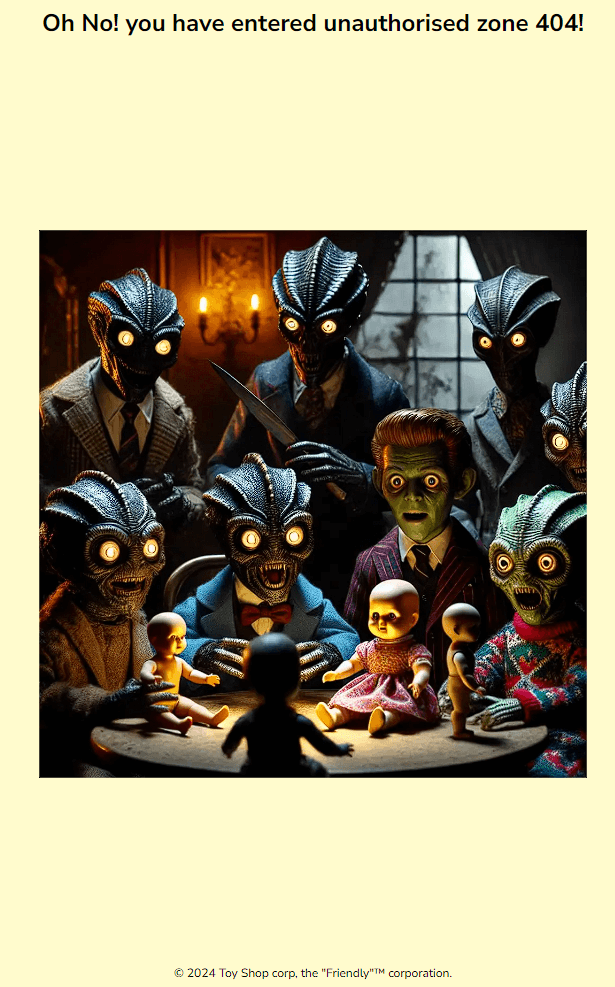
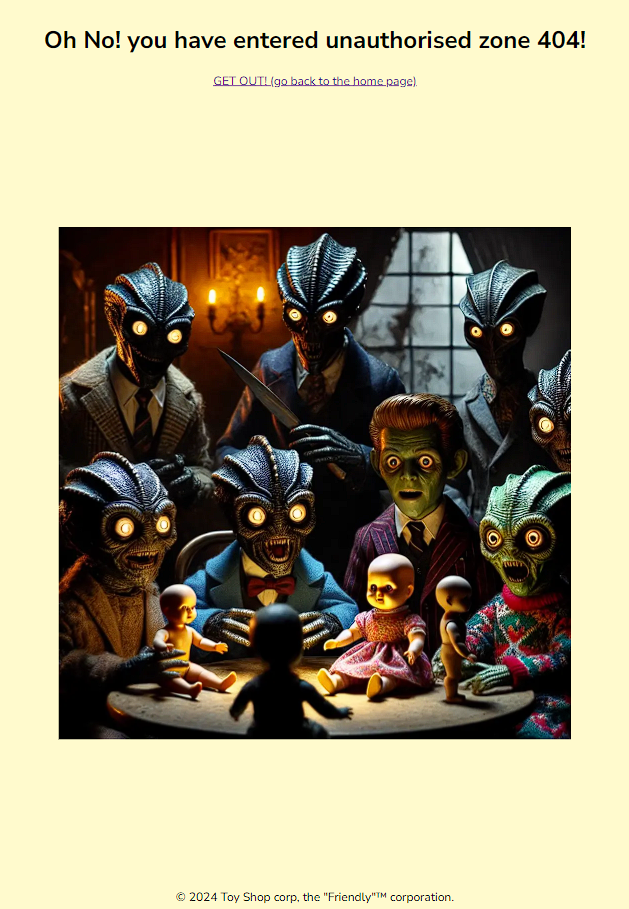
Readme updates for reduced gallery and back links functionality

diff --git a/README.md b/README.md
@@ -19,6 +19,7 @@ The aim of this site was to help my son improve his understanding of mathematics
 - [Footer](#footer)
 - [Main Page](#main-page)
 - [Search Gallery Page](#search-gallery-page)
+  - [Reduced Gallery Page](#gallery-page-reduced)
 - [Game Page](#game-page)
 - [Success Page](#success-page)
 - [Well Done - New Game Page](#well-done---new-game-page)
@@ -36,7 +37,7 @@ The aim of this site was to help my son improve his understanding of mathematics
 - [Cloning](#cloning)
 - [References](#references)
 - [Technologies Used](#technologies-used)
-- [Credit](#credit)
+- [Credit & Thanks](#credit--thanks)
 
 
 ## Wire Frame
@@ -111,8 +112,15 @@ The overall goal for this website is to take a user input search query, pass it 
 - The user is instructed to select one of the images to advance to the next stage. 
 - The images are responsive to mouse over and the cursor changes to a pointer to reinforce the interactivity of the images. 
 - The gallery is fully responsive to screen sizes from 250px to 3440px wide.
+- A link to take the user back to the first page to try searching for a different toy is included under the gallery.
 
 ![gallery](assets/readme_images/gallery_page_boats.png)
+
+### Gallery Page reduced
+  - after the user has bought a car and choses to return to the gallery to pick a new toy to buy, the previously purchased toys will have been removed.
+
+  ![reduced_gallery](assets/readme_images/galery_reduced.png)
+
 
 ## Game Page
 
@@ -121,6 +129,7 @@ The overall goal for this website is to take a user input search query, pass it 
 - The coins are reactive to hover over, expanding and changing the cursor to a grabber to indicate interactivity. 
 - The give money to the shop keeper button submits the user's total to be checked against the price total. If the user is under or over the price, they are given text feedback as to which it is. 
 - Both buttons are responsive to mouse over and click.
+- A back to gallery link is included to return the user to the gallery page to chose a different toy to buy.
 
 ![game](assets/readme_images/game_page.png)
 
@@ -128,7 +137,7 @@ The overall goal for this website is to take a user input search query, pass it 
 
 - The success page is displayed when the user submits a total that matches the price. 
 - When the page is loaded, a success fanfare audio file is played. The file clip has an 'aria-label' associated with it for accessibility. 
-- The continue button returns the user back to the gallery of toys they have just chosen from.
+- The continue button returns the user back to the gallery of toys they have just chosen from, which will now have the just purchased toy removed.
 - The new game button returns the user to the main page, allowing them to select a new toy to play the game with. 
 - Both buttons are responsive to mouse over and click. The cursor changes to a pointer on mouse over.
 
@@ -145,6 +154,7 @@ The overall goal for this website is to take a user input search query, pass it 
 ## 404 Page
 
 - There is a 404 page should the user somehow find themselves where they shouldn't.
+- There is a handy link for the user to ~~run away~~ go back to the main page.
 
 ![404](assets/readme_images/404_page.png)
 
@@ -182,34 +192,34 @@ Below is an extract of the test script used to test and validate the project:
 | ---------------------------- | --------------------------------------------------------------------------------------- | -------------------------------------------------------- | ------- |
 | Search bar - entry           | 1\. Attempt to enter a leading and tailing space on a query  in the search bar          |                                                          |         |
 |                              | 2\. click search                                                                        |                                                          |         |
-|                              | 3\. verify A)                                                                           | A) The white spaces are removed                          |         |
+|                              | 3\. verify A)                                                                           | A) The white spaces are removed                          |  pass   |
 | Search bar - empty           | 1\. Attempt to click search without entering anything in the search bar                 |                                                          |         |
-|                              | 2.Verify A)                                                                             | A) The search is blocked, some input is required         |         |
+|                              | 2.Verify A)                                                                             | A) The search is blocked, some input is required         |  pass   |
 |                              |                                                                                         |                                                          |         |
 | Gallery page - screen resize | 1\. On the gallery page, resize the screen                                              |                                                          |         |
-|                              | 2\. Verify A)                                                                           | A) the gallery is not adversely affected by the resizing |         |
+|                              | 2\. Verify A)                                                                           | A) the gallery is not adversely affected by the resizing |  pass   |
 |                              |                                                                                         |                                                          |         |
 | Game page - coins on resize  | 1\. on the game page resize the screen to 250px wide                                    |                                                          |         |
-|                              | 2\. verify A)                                                                           | A) the coins are still functional                        |         |
+|                              | 2\. verify A)                                                                           | A) the coins are still functional                        |  pass   |
 |                              |                                                                                         |                                                          |         |
 |                              | 1\. on the game page resize the screen to 3440px wide                                   |                                                          |         |
-|                              | 2\. verify A)                                                                           | A) the coins are still functional                        |         |
+|                              | 2\. verify A)                                                                           | A) the coins are still functional                        |  pass   |
 |                              |                                                                                         |                                                          |         |
 | Spam the buttons             | 1\. Attempt to break the search button by rapidly clicking on it                        |                                                          |         |
-|                              | 2\. Verify A)                                                                           | A) the search button should suffer no ill effects        |         |
+|                              | 2\. Verify A)                                                                           | A) the search button should suffer no ill effects        |  pass   |
 |                              |                                                                                         |                                                          |         |
 |                              | 1\. Attempt to break the give money to the shop keeper button by rapidly clicking on it |                                                          |
-|                              | 2\. Verify A)                                                                           | A) the search button should suffer no ill effects        |         |
+|                              | 2\. Verify A)                                                                           | A) the search button should suffer no ill effects        |  pass   |
 |                              |                                                                                         |                                                          |         |
 |                              | 1\. Attempt to break the start over button by rapidly clicking on it                    |                                                          |         |
-|                              | 2\. Verify A)                                                                           | A) the search button should suffer no ill effects        |         |
+|                              | 2\. Verify A)                                                                           | A) the search button should suffer no ill effects        |  pass   |
 |                              |                                                                                         |                                                          |         |
 |                              | 1\. Attempt to break the new game button by rapidly clicking on it                      |                                                          |         |
-|                              | 2\. Verify A)                                                                           | A) the search button should suffer no ill effects        |         |
+|                              | 2\. Verify A)                                                                           | A) the search button should suffer no ill effects        |  pass   |
 |                              |                                                                                         |                                                          |         |
 | buying all 5 toys            | 1\. Play the game                                                                       |                                                          |         |
 |                              | 2\. buy each of the five toys in a collection                                           |                                                          |         |
-|                              | 3\. Verify A)                                                                           | A) the user is only given the new game option            |         |
+|                              | 3\. Verify A)                                                                           | A) the user is only given the new game option            |  pass   |
 
 
 Here is a breakdown of the devices the projected was tested across:
@@ -332,6 +342,7 @@ The process is as follows:
 - Remove Background
    - [Remove background](https://www.remove.bg/upload) Used to remove the background from the site images.
 
-### Credit
+### Credit & Thanks
 - Audio file taken from [Pixelbay](https://pixabay.com/).
+- And thanks to my mentor, Daisy Mc Girr for all the help and guidance.
 
